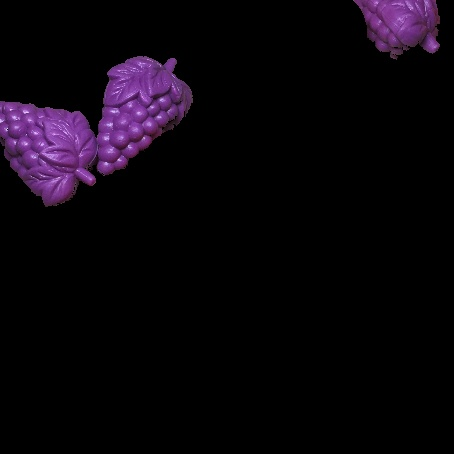
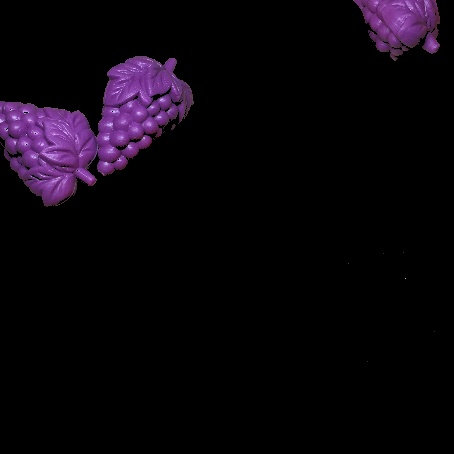
Procesamiento en color
Actualización de la práctica de procesamiento en color.

diff --git a/Tarea7-ProcesamientoEnColor/P7-1-2-EliminacionRuidoSal.py b/Tarea7-ProcesamientoEnColor/P7-1-2-EliminacionRuidoSal.py
@@ -1,0 +1,74 @@
+import cv2
+import matplotlib.pyplot as plt
+import numpy as np
+
+#Crea una ventana/submatriz de k x k
+def create_window(img, k, i_actual, j_actual):
+    Cuadrado = (k // 2)
+    MatrizVentana = img[(i_actual - Cuadrado):(i_actual + Cuadrado + 1), (j_actual - Cuadrado):(j_actual + Cuadrado + 1)]
+    
+    return MatrizVentana
+
+#Filtro de mediana para imagenes en escala de grises
+def median_filter_gray(img, k):
+    out = img.copy()
+    alto, ancho = out.shape
+
+    for renglon in range(k//2 , alto - k//2 -1):
+        for columna in range(k//2, ancho - k//2 - 1):
+            VentanaProximidad = create_window(img, k, renglon, columna)
+            out[renglon][columna] = np.median(VentanaProximidad)
+    
+    return out
+
+# Igual que antes pero para imagenes a color.
+def median_filter_rgb(img, k):
+    out = img.copy()
+    out[:, :, 0] = median_filter_gray(img[:, :, 0], k)
+    out[:, :, 1] = median_filter_gray(img[:, :, 1], k)
+    out[:, :, 2] = median_filter_gray(img[:, :, 2], k)
+    return out
+
+
+#IMAGEN EN RGB
+img = cv2.imread('Lena RGB Sal.tif')
+img = cv2.cvtColor(img, cv2.COLOR_BGR2RGB)
+k = 3
+
+img_filtered = median_filter_rgb(img, k)
+
+plt.subplot(121),plt.imshow(img)
+plt.title('Lena RGB Sal.tif'), plt.xticks([]), plt.yticks([])
+
+plt.subplot(122),plt.imshow(img_filtered)
+plt.title('Filtro de mediana'), plt.xticks([]), plt.yticks([])
+
+plt.savefig("LenaSal.png", dpi = 600)
+plt.show()
+
+#IMAGEN EN HLS
+img = cv2.cvtColor(img, cv2.COLOR_RGB2HLS)
+k = 3
+
+img_filtered = median_filter_rgb(img, k)
+
+plt.subplot(121),plt.imshow(img)
+plt.title('Lena RGB Sal.tif'), plt.xticks([]), plt.yticks([])
+
+plt.subplot(122),plt.imshow(img_filtered)
+plt.title('Filtro de mediana'), plt.xticks([]), plt.yticks([])
+
+plt.savefig("LenaSalHLS.png", dpi = 600)
+plt.show()
+
+img_hls2rgb = cv2.cvtColor(img, cv2.COLOR_HLS2RGB)
+img_filtered_hls2rgb = cv2.cvtColor(img_filtered, cv2.COLOR_HLS2RGB)
+
+plt.subplot(121),plt.imshow(img_hls2rgb)
+plt.title('Lena RGB Sal.tif'), plt.xticks([]), plt.yticks([])
+
+plt.subplot(122),plt.imshow(img_filtered_hls2rgb)
+plt.title('Filtro de mediana'), plt.xticks([]), plt.yticks([])
+
+plt.savefig("LenaSalHLS2RGB.png", dpi = 600)
+plt.show()

diff --git a/Tarea7-ProcesamientoEnColor/P7-4-3-HistogramaHLS3channel.py b/Tarea7-ProcesamientoEnColor/P7-4-3-HistogramaHLS3channel.py
@@ -1,0 +1,64 @@
+import cv2
+import matplotlib.pyplot as plt
+import numpy as np
+
+
+def ecualizacion_histograma_gray(img_gray):
+    out = img_gray.copy()
+    hist, _ = np.histogram(img_gray.flatten(), 256, [0,256]) 
+    histacum = hist.cumsum()
+    prob = histacum / histacum.max()
+    prob *= 255
+    for i in range (0, img_gray.shape[0]):
+        for j in range(0, img_gray.shape[1]):
+            out[i][j] = prob[img_gray[i][j]]
+    out = out.astype('uint8')
+    return out
+
+def ecualizacion_histograma_hls(img_hls):
+    out = img_hls.copy()
+    for channel in range(out.shape[2]):
+        out[:,:,channel] = ecualizacion_histograma_gray(out[:,:,channel])
+    return out
+
+
+#IMAGEN EN RGB
+imgtxt= ['Farolas-LED.jpg', 'Rocas.tif']
+
+for i in range(len(imgtxt)):
+    img = cv2.imread(imgtxt[i])
+    img = cv2.cvtColor(img, cv2.COLOR_BGR2RGB)
+    img_hls = cv2.cvtColor(img, cv2.COLOR_RGB2HLS)
+    img_ecualizada = ecualizacion_histograma_hls(img_hls)
+    img_ecualizada = cv2.cvtColor(img_ecualizada, cv2.COLOR_HLS2RGB)
+
+
+    plt.subplot(221),plt.imshow(img)
+    plt.title('Imagen Original'), plt.xticks([]), plt.yticks([])
+
+    plt.subplot(222)
+    channels = cv2.split(img)
+    plt.title("Histograma de Color")
+    plt.xlabel('Bins')
+    plt.ylabel('# de pixeles')
+    plt.xlim((0, 256))
+    colors = ('b', 'g', 'r')
+    for (channel, color) in zip(channels, colors):
+        histogram = cv2.calcHist([channel], [0], None, [256], [0, 256])
+        plt.plot(histogram, color=color)
+    
+
+    plt.subplot(223),plt.imshow(img_ecualizada)
+    plt.title('Ecualizacion Histograma'), plt.xticks([]), plt.yticks([])
+
+    plt.subplot(224)
+    channels = cv2.split(img_ecualizada)
+    plt.title("Histograma de Color")
+    plt.xlabel('Bins')
+    plt.ylabel('# de pixeles')
+    plt.xlim((0, 256))
+    colors = ('b', 'g', 'r')
+    for (channel, color) in zip(channels, colors):
+        histogram = cv2.calcHist([channel], [0], None, [256], [0, 256])
+        plt.plot(histogram, color=color)
+    plt.show()

diff --git a/Tarea7-ProcesamientoEnColor/P7-2-2-SegmentacionHLS.py b/Tarea7-ProcesamientoEnColor/P7-2-2-SegmentacionHLS.py
@@ -1,0 +1,55 @@
+import cv2
+import matplotlib.pyplot as plt
+import numpy as np
+
+def segmentation(value):
+    hMin = cv2.getTrackbarPos('Hmin', 'segmentada')
+    hMax = cv2.getTrackbarPos('Hmax', 'segmentada')
+    sMin = cv2.getTrackbarPos('Smin', 'segmentada')
+    sMax = cv2.getTrackbarPos('Smax', 'segmentada')
+    lMin = cv2.getTrackbarPos('Lmin', 'segmentada')
+    lMax = cv2.getTrackbarPos('Lmax', 'segmentada')
+
+        # ajustar valores máximos y minimos para ingresar a la máscara
+    lower = np.array([hMin,  sMin, lMin])
+    upper = np.array([hMax, sMax, lMax])
+    mask = cv2.inRange(img, lower, upper)
+
+    outimg = cv2.bitwise_and(img, img, mask=mask)
+    outimg = cv2.cvtColor(outimg, cv2.COLOR_HLS2BGR)
+    cv2.imshow('segmentada', outimg)
+    cv2.imwrite('segmentadaHLSMorado.jpg',outimg)
+    #cv2.imwrite('segmentadaHLSNaranja.jpg',outimg)
+    return 
+
+#IMAGEN EN RGB
+
+NomArchivo = 'Juguetes de Colores.jpg'
+#NomArchivo = 'Figuras de Colores.jpg'
+
+img = cv2.imread(NomArchivo)
+
+img = cv2.resize(img, (0,0), fx=0.15, fy=0.15)
+#img = cv2.resize(img, (0,0), fx=0.3, fy=0.3)
+
+cv2.imshow('original', img)
+img = cv2.cvtColor(img, cv2.COLOR_BGR2HLS)
+
+
+cv2.imshow('segmentada', img)
+cv2.createTrackbar('Hmin', 'segmentada', 0, 179, segmentation)
+cv2.createTrackbar('Hmax', 'segmentada', 0, 179, segmentation)
+cv2.createTrackbar('Smin', 'segmentada', 0, 255, segmentation)
+cv2.createTrackbar('Smax', 'segmentada', 0, 255, segmentation)
+cv2.createTrackbar('Lmin', 'segmentada', 0, 255, segmentation)
+cv2.createTrackbar('Lmax', 'segmentada', 0, 255, segmentation)
+
+
+cv2.setTrackbarPos('Hmax', 'segmentada',255)
+cv2.setTrackbarPos('Smax', 'segmentada',255)
+cv2.setTrackbarPos('Lmax', 'segmentada',255)
+
+
+
+cv2.waitKey(0)
+cv2.destroyAllWindows()

diff --git a/Tarea7-ProcesamientoEnColor/P7-3-1bSegmentacionOpenCV.py b/Tarea7-ProcesamientoEnColor/P7-3-1bSegmentacionOpenCV.py
@@ -1,0 +1,53 @@
+import cv2
+import matplotlib.pyplot as plt
+import numpy as np
+from matplotlib.colors import hsv_to_rgb
+from matplotlib.colors import rgb_to_hsv
+
+flags = [i for i in dir(cv2) if i.startswith('COLOR_')]
+
+juguetesImg = cv2.imread('Juguetes de Colores.jpg')
+juguetesImg = cv2.resize(juguetesImg, (0,0), fx= 0.2, fy=0.2)
+juguetesImg = cv2.cvtColor(juguetesImg, cv2.COLOR_BGR2RGB)
+
+plt.figure(1, (10,5))
+plt.subplot(1, 3, 1)
+plt.imshow(juguetesImg)
+plt.title("Figuras de colores")
+
+hls_juguetes = cv2.cvtColor(juguetesImg, cv2.COLOR_RGB2HLS)
+h,l,s = cv2.split(hls_juguetes)
+dark_purple = (140,0,0)
+ligth_purple = (179,125,125)
+
+
+#dark_purple = rgb_to_hsv(np.array(dark_purple)/255)
+#ligth_purple = rgb_to_hsv(np.array(ligth_purple)/255)
+print(ligth_purple, dark_purple)
+
+mask = cv2.inRange(hls_juguetes, dark_purple, ligth_purple)
+result = cv2.bitwise_and(juguetesImg, juguetesImg, mask=mask)
+
+plt.subplot(1, 3, 2)
+plt.imshow(mask, cmap="gray")
+plt.title("Mascara")
+
+plt.subplot(1, 3, 3)
+plt.imshow(result)
+plt.title("Segmentacion")
+plt.savefig('SegmentadaMoradaOpenCV.png', dpi=600)
+
+
+lo_square = np.full((10, 10, 3), ligth_purple, dtype=np.uint8) / 255.0
+do_square = np.full((10, 10, 3), dark_purple, dtype=np.uint8) / 255.0
+
+plt.figure(2)
+plt.subplot(1, 2, 1)
+plt.imshow(hsv_to_rgb(do_square))
+plt.title("Morado claro")
+
+plt.subplot(1, 2, 2)
+plt.imshow(hsv_to_rgb(lo_square))
+plt.title("Morado oscuro")
+plt.show()
+plt.savefig('ColoresMorado.png', dpi=600)

diff --git a/Tarea7-ProcesamientoEnColor/P7-1-1EliminacionRuidoGauss.py b/Tarea7-ProcesamientoEnColor/P7-1-1EliminacionRuidoGauss.py
@@ -1,13 +1,9 @@
 import cv2
 import matplotlib.pyplot as plt
-import numpy as np
 
 #IMAGEN EN RGB
 img = cv2.imread('Valle de la luna-adicion de ruido gaussiano.jpg')
 img = cv2.cvtColor(img, cv2.COLOR_BGR2RGB)
-k = 7
-kMax = 9
-
 img_filtered = cv2.fastNlMeansDenoisingColored(img,None,10,10,7,21)
 
 plt.subplot(121),plt.imshow(img)
@@ -19,11 +15,8 @@ plt.title('Imagen Filtrada'), plt.xticks([]), plt.yticks([])
 plt.savefig("ValleGauss.png", dpi = 600)
 plt.show()
 
-#IMAGEN EN RGB
-img = cv2.cvtColor(img, cv2.COLOR_BGR2HLS)
-k = 7
-kMax = 9
-
+#IMAGEN EN HLS
+img = cv2.cvtColor(img, cv2.COLOR_RGB2HLS)
 img_filtered = cv2.fastNlMeansDenoisingColored(img,None,10,10,7,21)
 
 plt.subplot(121),plt.imshow(img)
@@ -33,4 +26,16 @@ plt.subplot(122),plt.imshow(img_filtered)
 plt.title('Imagen Filtrada'), plt.xticks([]), plt.yticks([])
 
 plt.savefig("ValleGaussHLS.png", dpi = 600)
+plt.show()
+
+img_hls2rgb = cv2.cvtColor(img, cv2.COLOR_HLS2RGB)
+img_filtered_hls2rgb = cv2.cvtColor(img_filtered, cv2.COLOR_HLS2RGB)
+
+plt.subplot(121),plt.imshow(img_hls2rgb)
+plt.title('Imagen Original'), plt.xticks([]), plt.yticks([])
+
+plt.subplot(122),plt.imshow(img_filtered_hls2rgb)
+plt.title('Imagen Filtrada'), plt.xticks([]), plt.yticks([])
+
+plt.savefig("ValleGaussHLS2RGB.png", dpi = 600)
 plt.show()

diff --git a/Tarea7-ProcesamientoEnColor/P7-3-1aSegmentacionOpenCV.py b/Tarea7-ProcesamientoEnColor/P7-3-1aSegmentacionOpenCV.py
@@ -1,0 +1,45 @@
+import cv2
+import matplotlib.pyplot as plt
+import numpy as np
+from matplotlib.colors import hsv_to_rgb
+
+flags = [i for i in dir(cv2) if i.startswith('COLOR_')]
+
+figurasImg = cv2.imread('Figuras de Colores.jpg')
+figurasImg = cv2.resize(figurasImg, (0,0), fx= 0.2, fy=0.2)
+figurasImg = cv2.cvtColor(figurasImg, cv2.COLOR_BGR2RGB)
+
+plt.figure(1, (10,5))
+plt.subplot(1, 3, 1)
+plt.imshow(figurasImg)
+plt.title("Figuras de colores")
+
+hsv_figuras = cv2.cvtColor(figurasImg, cv2.COLOR_RGB2HSV)
+light_orange = (12,190,200)
+dark_orange = (20,255,255)
+
+mask = cv2.inRange(hsv_figuras, light_orange, dark_orange)
+result = cv2.bitwise_and(figurasImg, figurasImg, mask=mask)
+
+plt.subplot(1, 3, 2)
+plt.imshow(mask, cmap="gray")
+plt.title("Mascara")
+
+plt.subplot(1, 3, 3)
+plt.imshow(result)
+plt.title("Segmentacion")
+plt.savefig('SegmentadaNaranja.png', dpi=600)
+
+lo_square = np.full((10, 10, 3), light_orange, dtype=np.uint8) / 255.0
+do_square = np.full((10, 10, 3), dark_orange, dtype=np.uint8) / 255.0
+
+plt.figure(2)
+plt.subplot(1, 2, 1)
+plt.imshow(hsv_to_rgb(do_square))
+plt.title("Naranja claro")
+
+plt.subplot(1, 2, 2)
+plt.imshow(hsv_to_rgb(lo_square))
+plt.title("Naranja oscuro")
+plt.show()
+plt.savefig('ColoresNaranja.png', dpi=600)

diff --git a/Tarea7-ProcesamientoEnColor/P7-4-2-HistogramaHLS.py b/Tarea7-ProcesamientoEnColor/P7-4-2-HistogramaHLS.py
@@ -5,7 +5,7 @@ import numpy as np
 
 def ecualizacion_histograma_gray(img_gray):
     out = img_gray.copy()
-    hist, edge = np.histogram(img_gray.flatten(), 256, [0,256]) 
+    hist, _ = np.histogram(img_gray.flatten(), 256, [0,256]) 
     #print(edge)
     histacum = hist.cumsum()
     #print(histacum)
@@ -20,10 +20,9 @@ def ecualizacion_histograma_gray(img_gray):
     #cv2.waitKey(0)
     return out
 
-def ecualizacion_histograma_hls(img_rgb):
-    out = img.copy()
-    #print(img[:,:,0].shape)
-    out[:,:,2] = ecualizacion_histograma_gray(img_rgb[:,:,2])
+def ecualizacion_histograma_hls(img_hls, channel):
+    out = img_hls.copy()
+    out[:,:,channel] = ecualizacion_histograma_gray(out[:,:,channel])
     return out
 
 
@@ -34,8 +33,8 @@ for i in range(len(imgtxt)):
     img = cv2.imread(imgtxt[i])
     img = cv2.cvtColor(img, cv2.COLOR_BGR2RGB)
     img_hls = cv2.cvtColor(img, cv2.COLOR_RGB2HLS)
-    img_ecualizada = ecualizacion_histograma_hls(img_hls)
-    img_ecualizada = cv2.cvtColor(img, cv2.COLOR_HLS2RGB)
+    img_ecualizada = ecualizacion_histograma_hls(img_hls,1)
+    img_ecualizada = cv2.cvtColor(img_ecualizada, cv2.COLOR_HLS2RGB)
 
 
     plt.subplot(221),plt.imshow(img)
